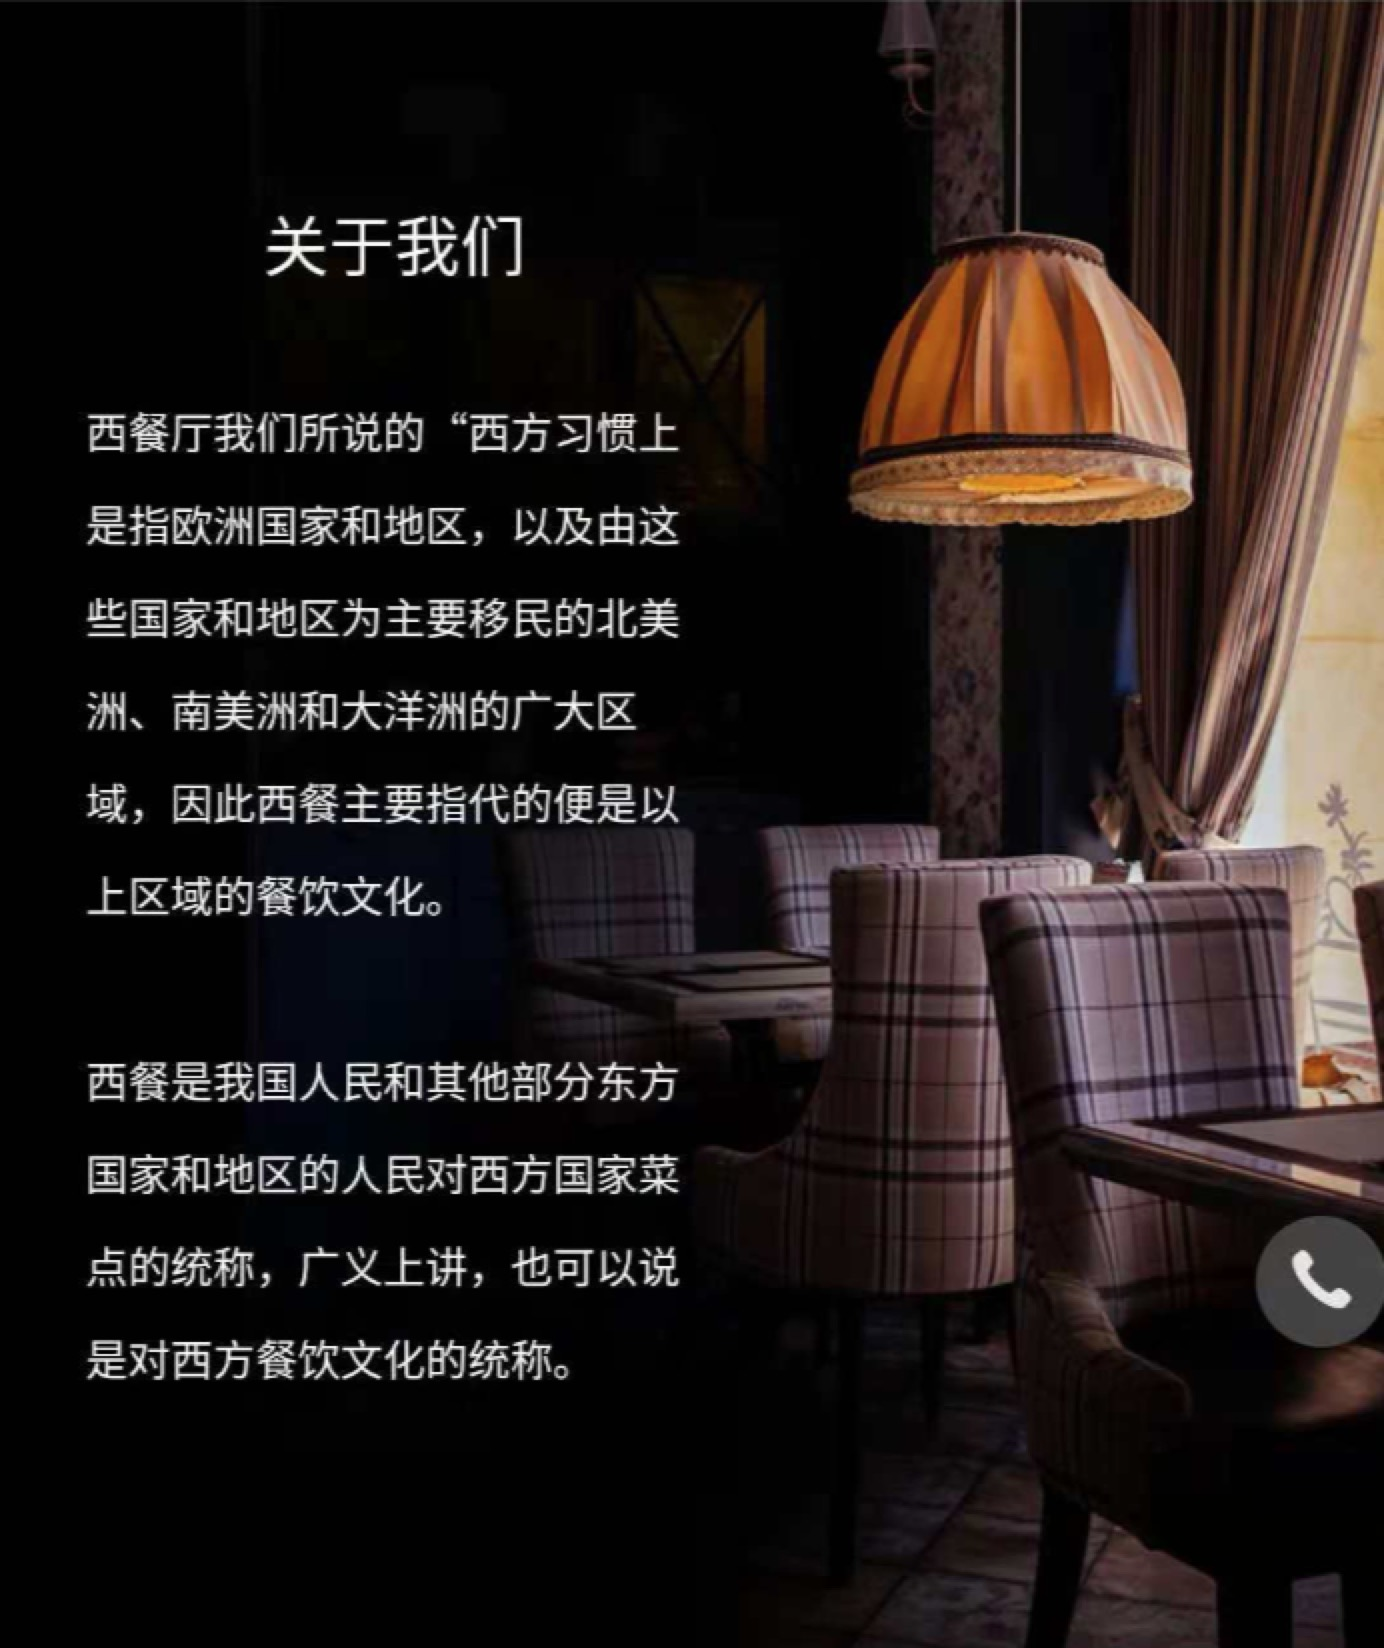
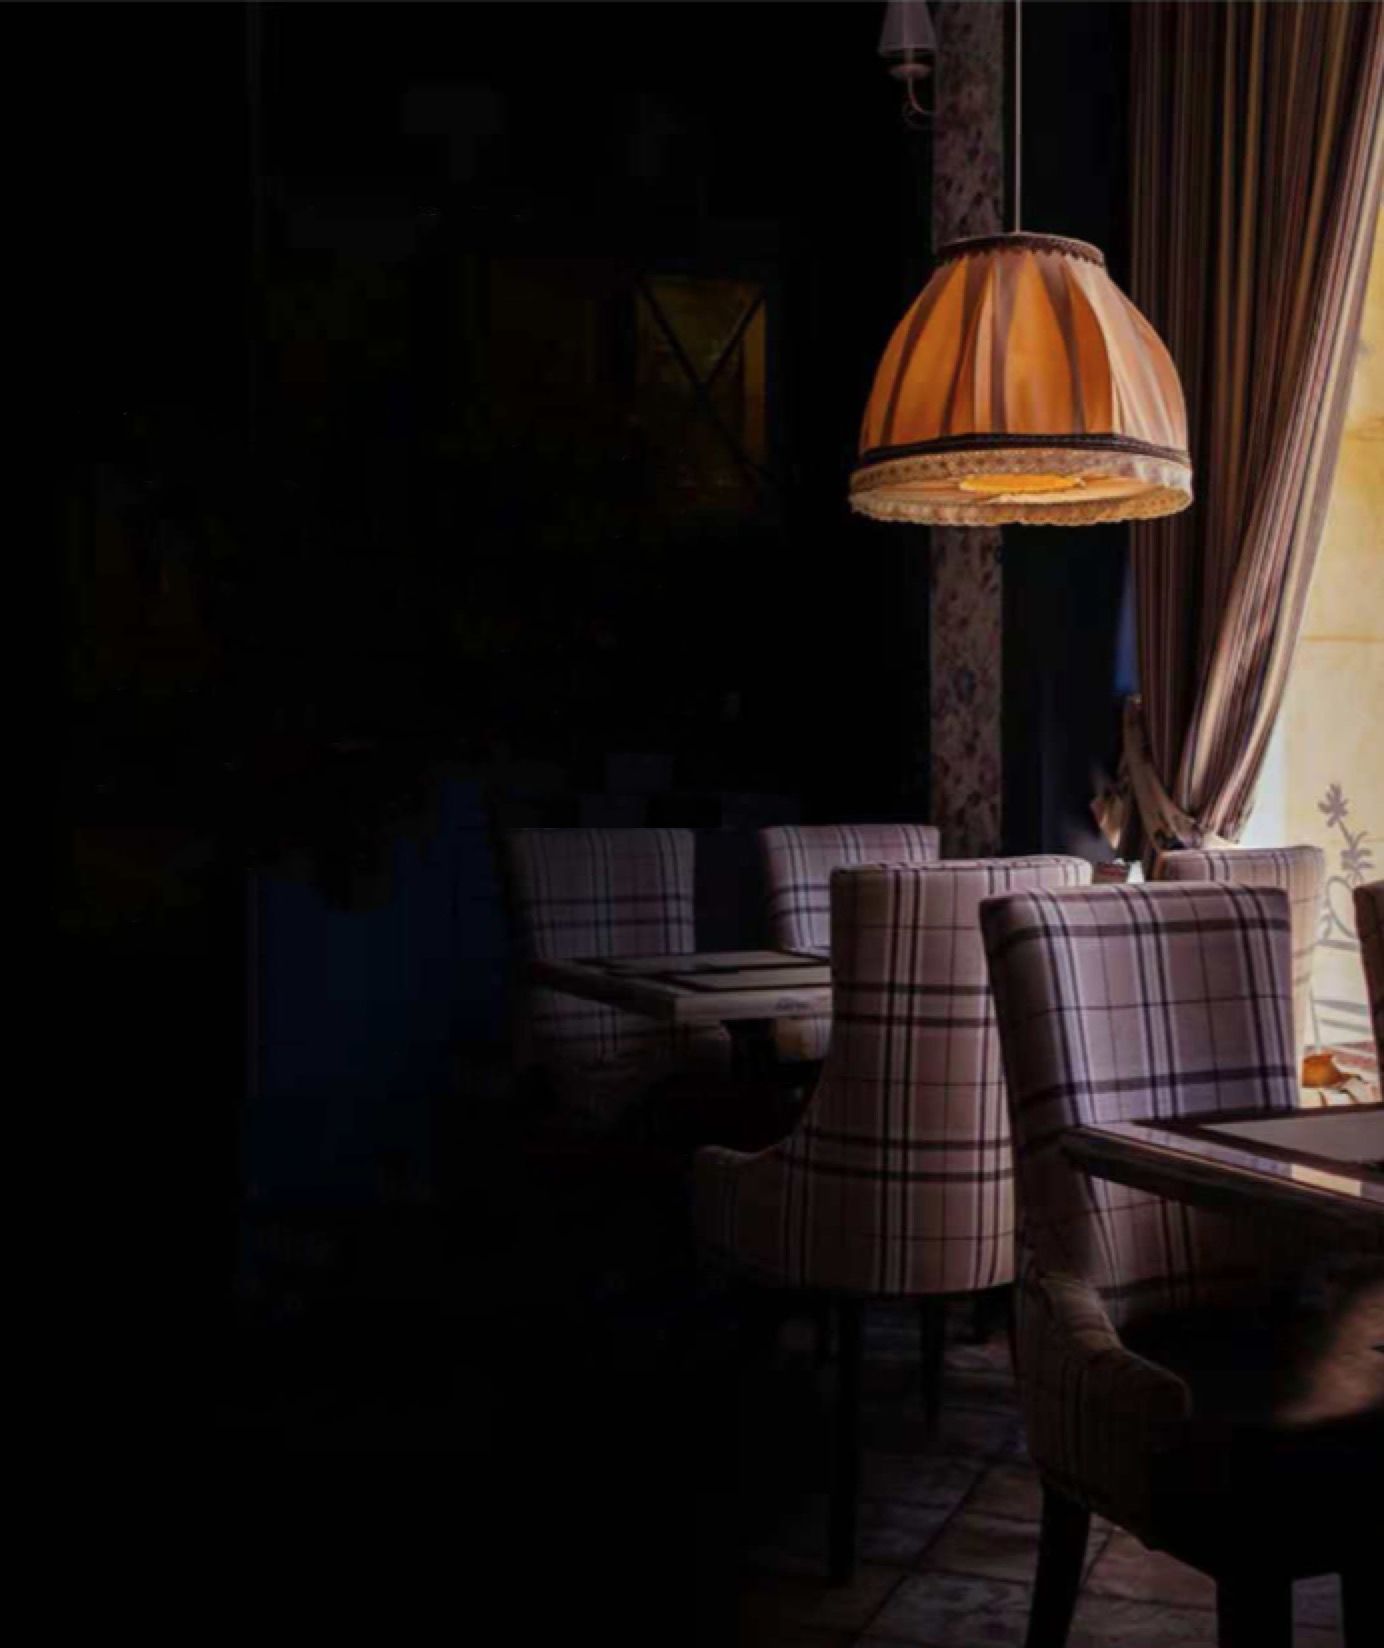
modify home

diff --git a/src/pages/home/home.vue b/src/pages/home/home.vue
@@ -19,7 +19,7 @@
         <span style="float: right;color: darkgrey">-</span>
       </i-col>
       <i-col span="6" style="text-align: center">
-          <span style="font-size: 15px">预约订座</span>
+        <span style="font-size: 15px">预约订座</span>
       </i-col>
       <i-col span="9">
         <span style="color: darkgrey">-</span>
@@ -38,13 +38,13 @@
     <!--预约订座 seat picture-->
     <i-row style="position:relative;top: 50px;">
       <i-col span="12" style="text-align: center">
-          <image src="/static/img/seat-4.jpeg"
-                 class="slide-image" mode="widthFix" style="width: 80%;border-radius:5px"/>
+        <image src="/static/img/seat-4.jpg"
+               class="slide-image" mode="widthFix" style="width: 80%;border-radius:5px"/>
         <div class="LeftBlock">二人桌</div>
       </i-col>
 
       <i-col span="12" style="text-align: center">
-        <image src="/static/img/seat-2.jpeg"
+        <image src="/static/img/seat-2.jpg"
                class="slide-image" mode="widthFix" style="width: 80%;border-radius:5px"/>
         <div class="rightBlock">四人桌</div>
       </i-col>
@@ -52,13 +52,13 @@
 
     <i-row style="position:relative;top: 60px;">
       <i-col span="12" style="text-align: center">
-        <image src="/static/img/seat-n.jpeg"
+        <image src="/static/img/seat-n.jpg"
                class="slide-image" mode="widthFix" style="width: 80%;border-radius:5px"/>
         <div class="LeftBlock">六人桌</div>
       </i-col>
 
       <i-col span="12" style="text-align: center">
-        <image src="/static/img/seat-6.jpeg"
+        <image src="/static/img/seat-6.jpg"
                class="slide-image" mode="widthFix" style="width: 80%;border-radius:5px"/>
         <div class="rightBlock">团体活动</div>
       </i-col>
@@ -70,6 +70,14 @@
       <i-col span="24" style="text-align: center">
         <image src="/static/img/aboutme.jpg"
                class="slide-image" mode="widthFix" style="width: 100%;"/>
+        <div style="position: absolute;top: 10px;left: 20px;width: 150px;height: 50px;color:white;font-size:18px;line-height:50px;">
+          <span style="line-hight:25px">关于我们</span>
+        </div>
+        <div style="position: absolute;top: 60px;left: 20px;width: 150px;height: 250px;color:white;font-size:12px;line-height:25px;text-align: left">
+          作为国内快速成长的西式休闲餐饮连锁企业，公司将大都市的餐饮管理专业化和本土餐厅的舒适用餐环境完美结合，
+          以一流的服务，高品质的美食和饮品吸引了来自世界各地的人们。从早午餐到晚餐，凭借着浓郁北美风味的经典西式佳肴，
+          始终如一地为客人提供宾至如归的用餐体验。
+        </div>
       </i-col>
     </i-row>
     <!--关于我们end-->
@@ -98,55 +106,56 @@
 
     <i-row style="position:relative;top: 150px;">
       <i-col span="12" style="text-align: center">
-        <image src="/static/img/seat-4.jpeg"
+        <image src="/static/img/signboard1.jpg"
                class="slide-image" mode="widthFix" style="width: 80%;border-radius:5px"/>
-        <div>二人桌</div>
+        <div style="text-align: left;font-size: 10px;padding-left: 14px">西冷牛扒</div>
       </i-col>
 
       <i-col span="12" style="text-align: center">
-        <image src="/static/img/seat-2.jpeg"
+        <image src="/static/img/signboard2.jpg"
                class="slide-image" mode="widthFix" style="width: 80%;border-radius:5px"/>
-        <div>四人桌</div>
+        <div style="text-align: left;font-size: 10px;padding-left: 14px">海鲜杂烩</div>
       </i-col>
     </i-row>
 
     <i-row style="position:relative;top: 160px;">
       <i-col span="12" style="text-align: center">
-        <image src="/static/img/seat-n.jpeg"
+        <image src="/static/img/signboard3.jpeg"
                class="slide-image" mode="widthFix" style="width: 80%;border-radius:5px"/>
-        <div>六人桌</div>
+        <div style="text-align: left;font-size: 10px;padding-left: 14px">法国鹅肝</div>
       </i-col>
 
       <i-col span="12" style="text-align: center">
-        <image src="/static/img/seat-6.jpeg"
+        <image src="/static/img/signboard4.jpg"
                class="slide-image" mode="widthFix" style="width: 80%;border-radius:5px"/>
-        <div>团体活动</div>
+        <div style="text-align: left;font-size: 10px;padding-left: 14px">极品三文鱼</div>
       </i-col>
     </i-row>
     <!--拨打电话-->
-    <div style="width: 40px;height: 40px;position: fixed;background-color:gray;top: 50%;right: 20px;z-index: 999;border-radius: 20px;text-align: center;color: white;" @click="sendPhone">
-      P
+    <div style="width: 30px;height: 30px;position: fixed;top: 50%;right: 10px;z-index: 999;border-radius: 20px;text-align: center;color: white;" @click="sendPhone">
+      <image src="/static/img/phone.png"
+             class="slide-image" mode="widthFix" style="width: 100%;"/>
     </div>
   </div>
 </template>
 
 <script >
-import {sendP} from '@/util'
-export default {
-  data () {
-    return {
-      movies: [
-        {url: '/static/img/banner1.png'},
-        {url: '/static/img/banner2.png'}
-      ]
-    }
-  },
-  methods: {
-    sendPhone: function () {
-      sendP('15898131992')
+  import {sendP} from '@/util'
+  export default {
+    data () {
+      return {
+        movies: [
+          {url: '/static/img/banner1.png'},
+          {url: '/static/img/banner2.png'}
+        ]
+      }
+    },
+    methods: {
+      sendPhone: function () {
+        sendP('15898131992')
+      }
     }
   }
-}
 </script>
 <style >
   .swiper{
@@ -171,7 +180,7 @@ export default {
   .rightBlock{
     display:block;
     width:298rpx;
-    height:91%;
+    height:95%;
     z-index:12;
     position:absolute;
     background:rgba(0,0,0,0.4);

diff --git a/src/pages/home/main.js b/src/pages/home/main.js
@@ -1,0 +1,5 @@
+import Vue from 'vue'
+import home from './home'
+
+const app = new Vue(home)
+app.$mount()
